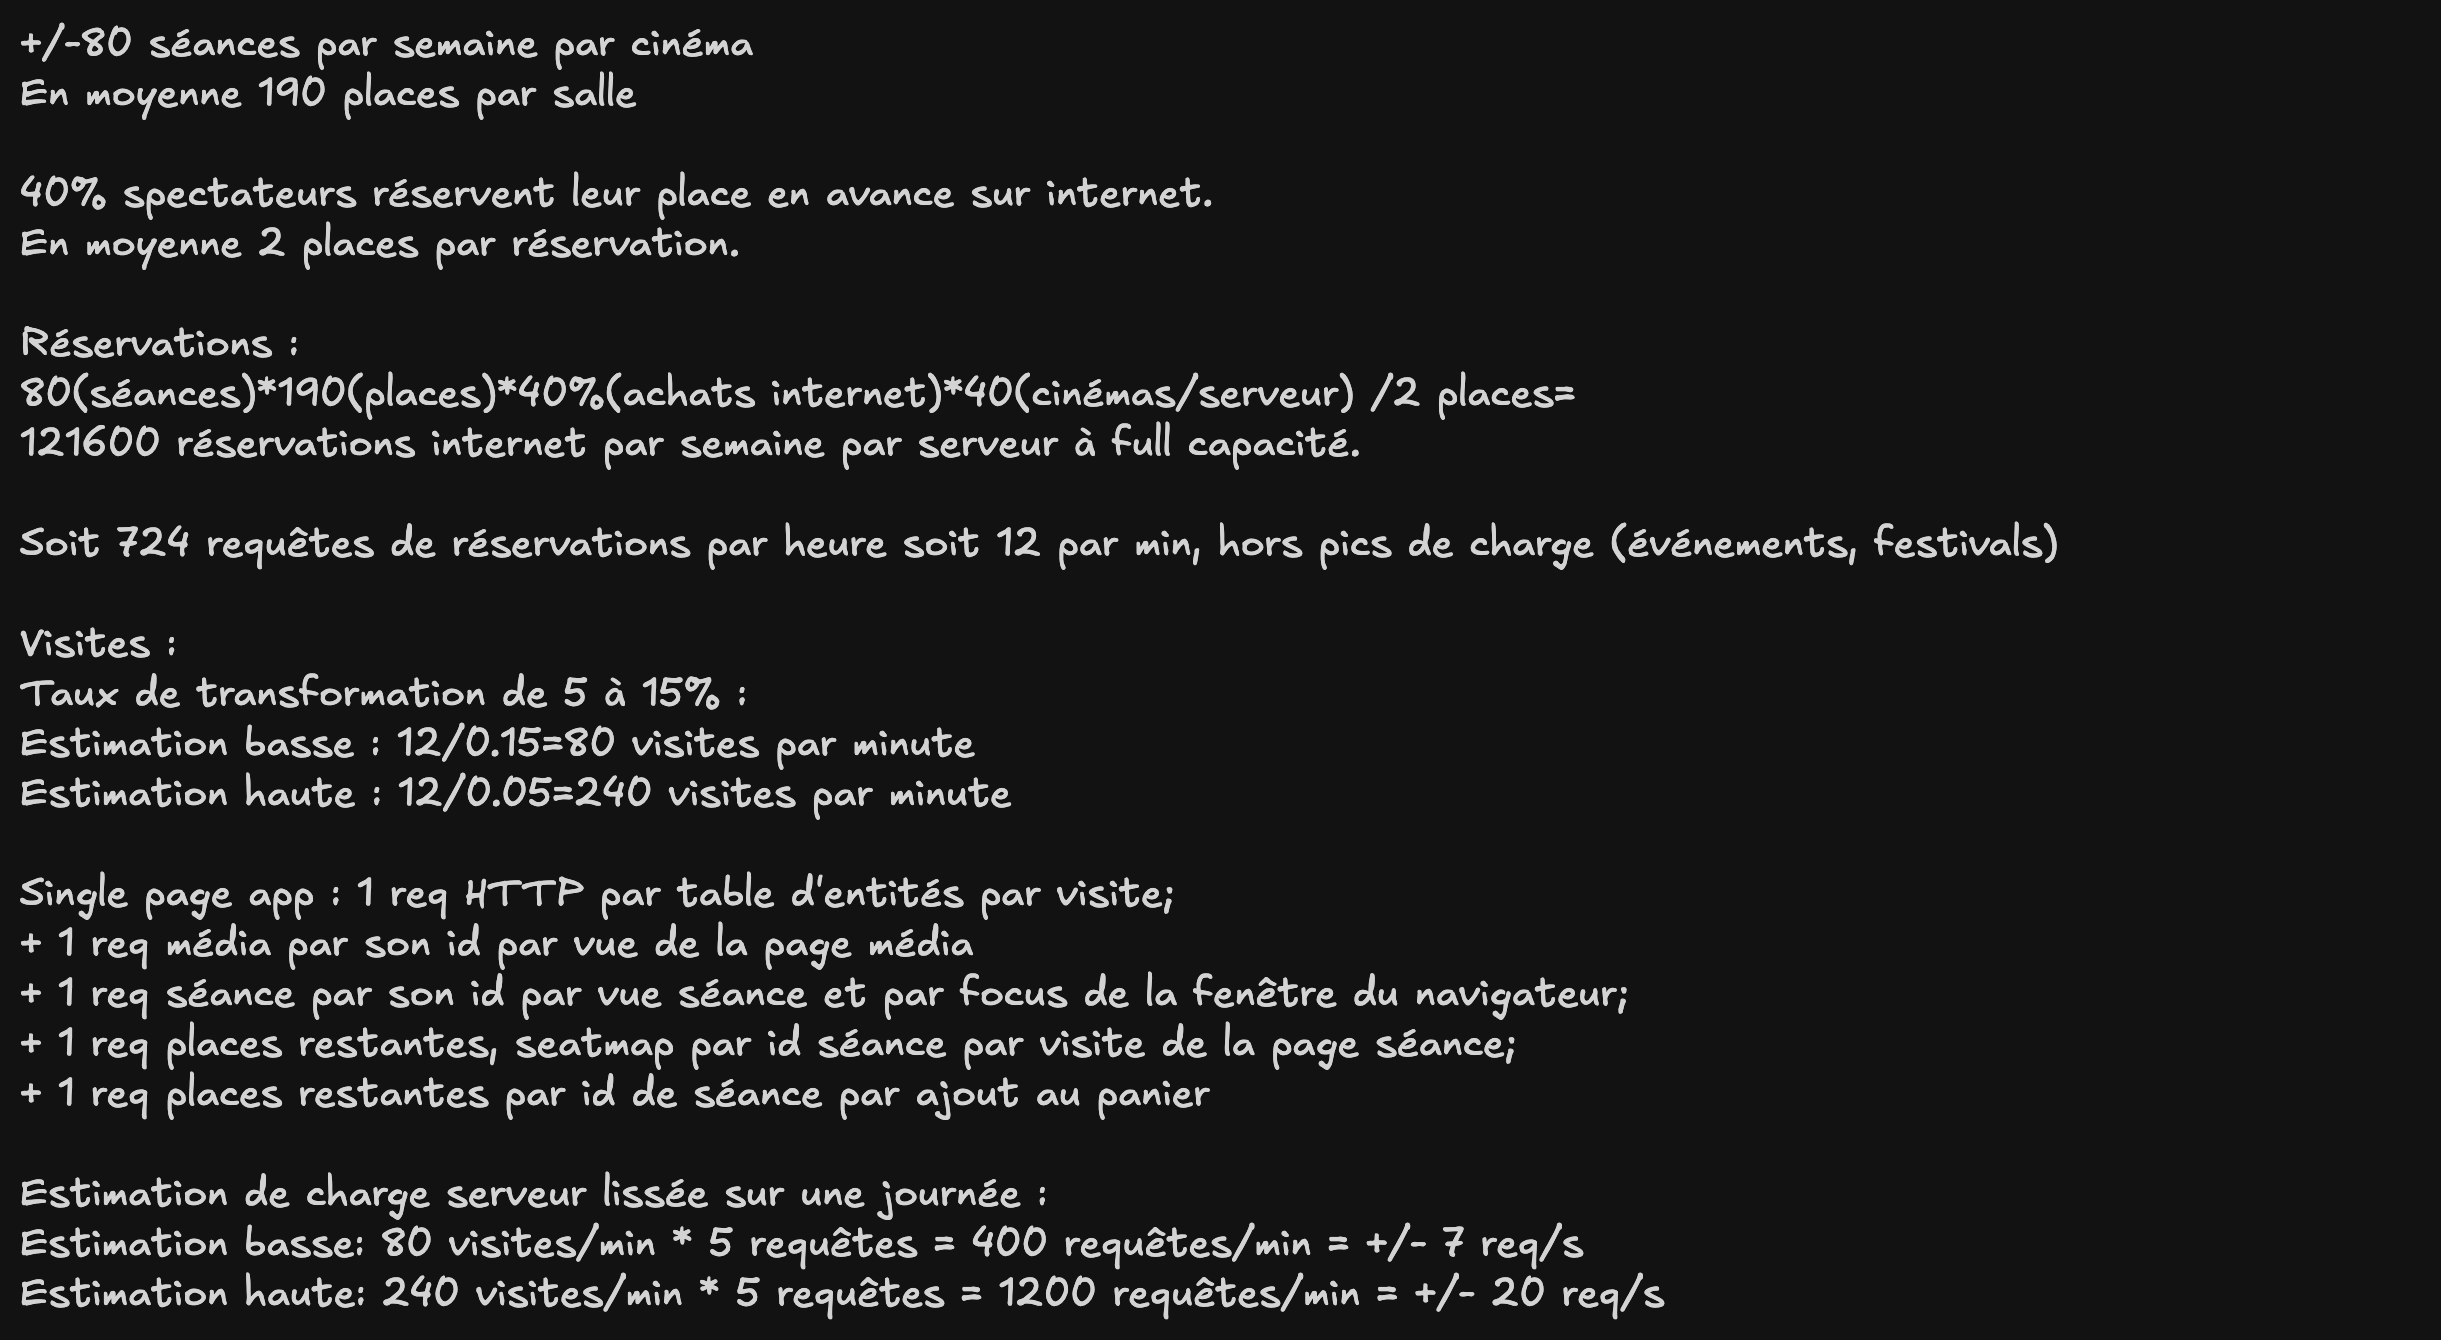
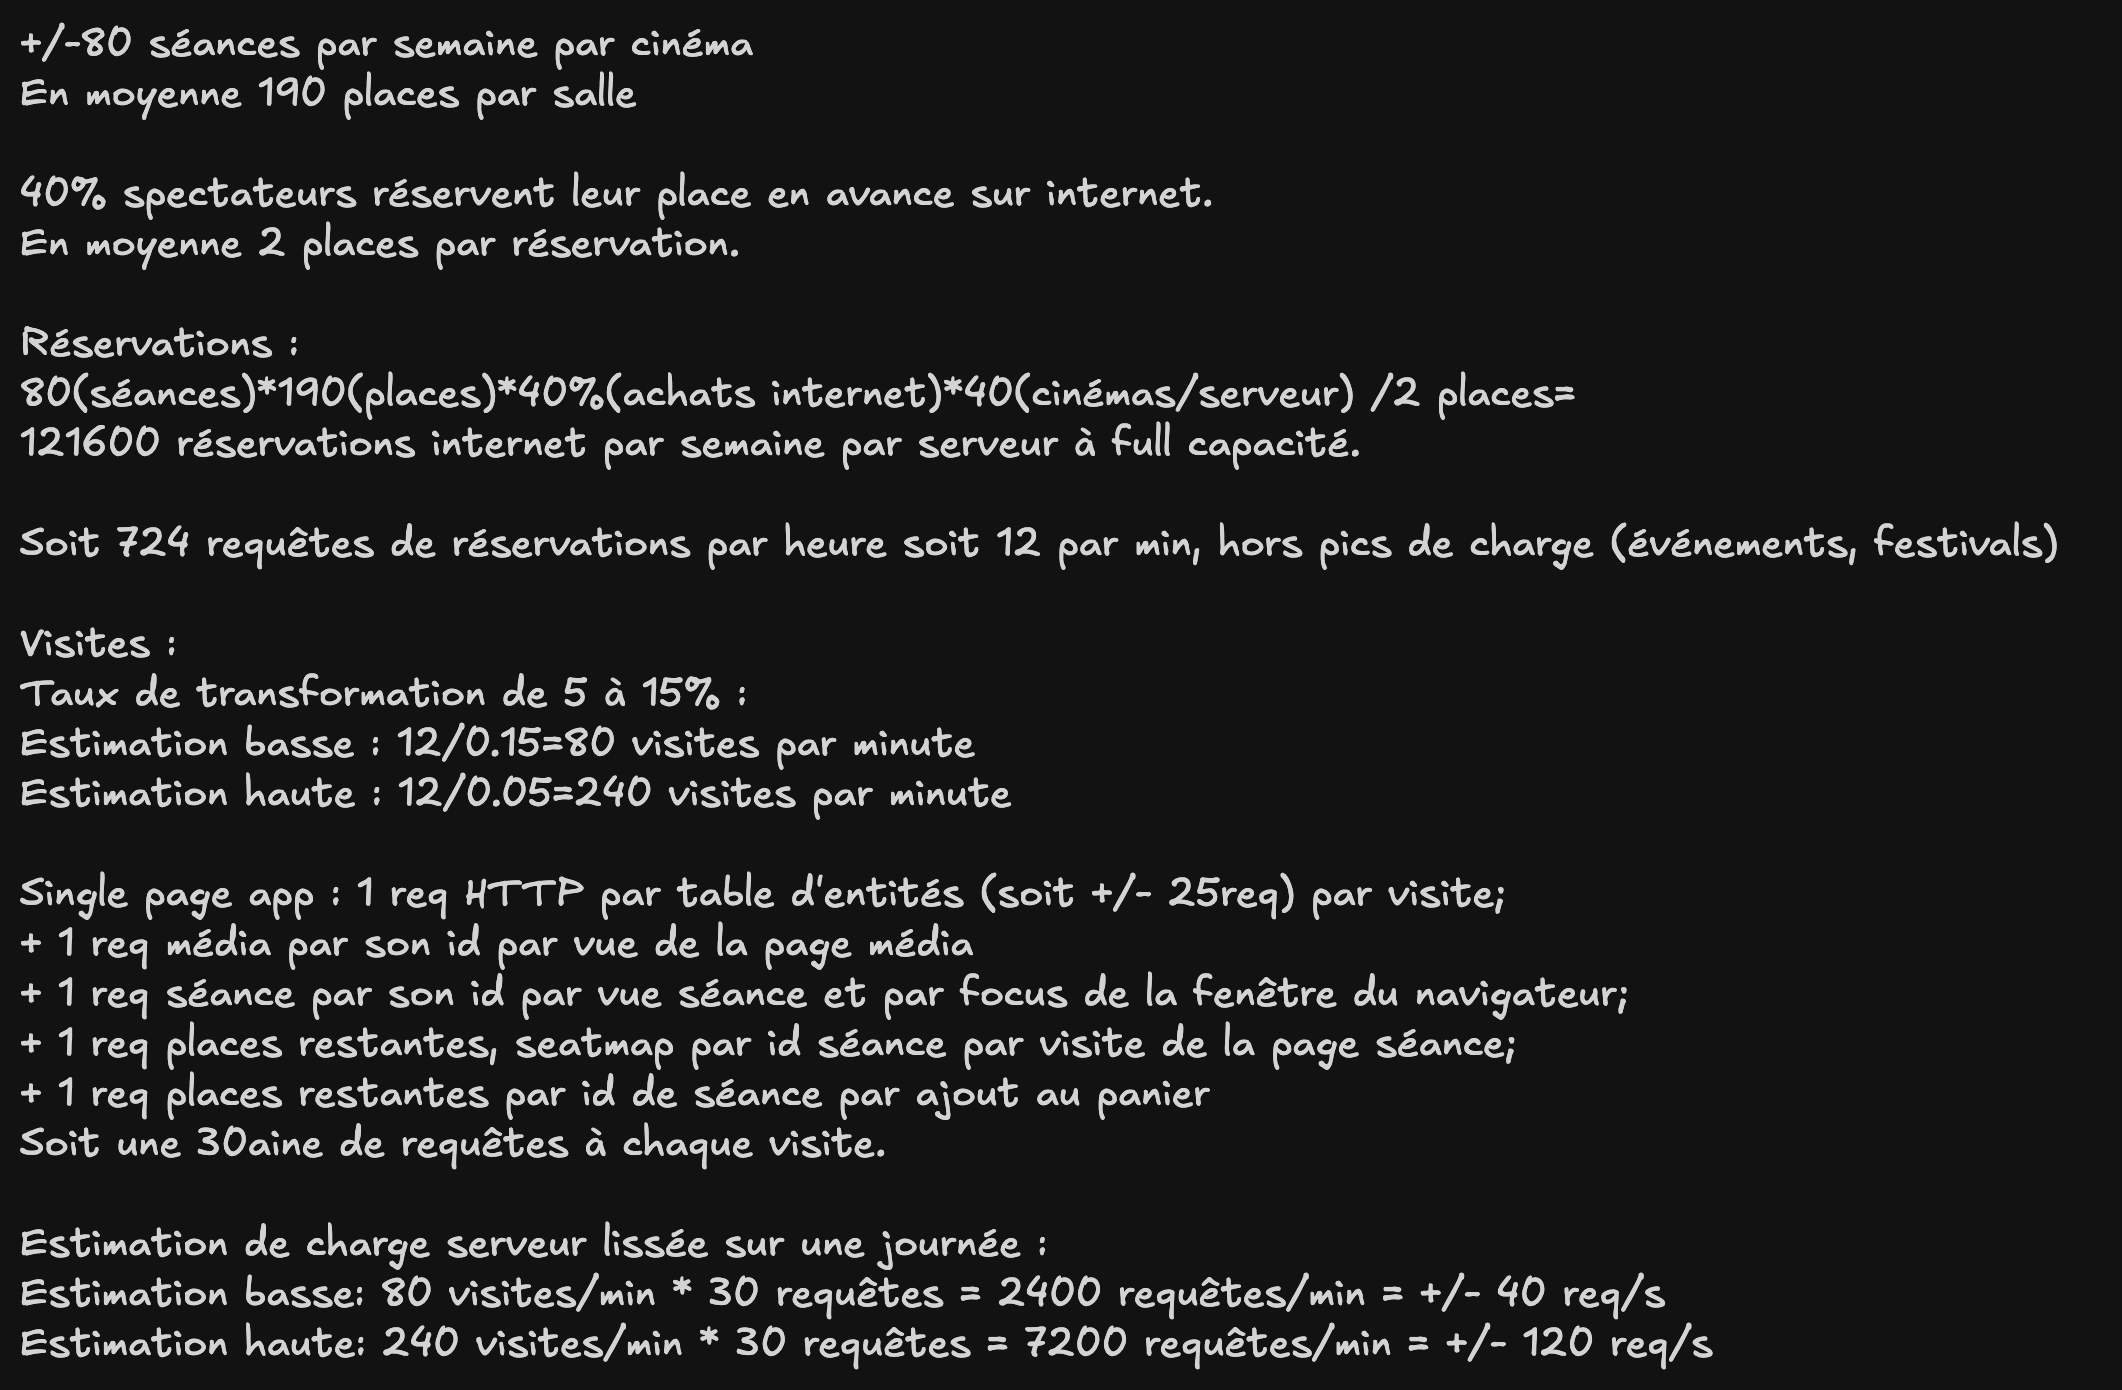
edition "Estimation charge serveur": nomnbre de requêtes/s

diff --git a/index.html b/index.html
@@ -327,7 +327,7 @@ MAUTIC_PORT=8080
 </section>
 <section>
   <h3>Estimation de charge par serveur</h3>
-  <img src="images/VAD-system design-estimation-charge.png"  />
+  <img src="images/VAD-system design-estimation-charge.png" style="max-width: 80%;"  />
 </section>
 <section style="text-align: left;">
   <h3>Erreurs de conception</h3>
